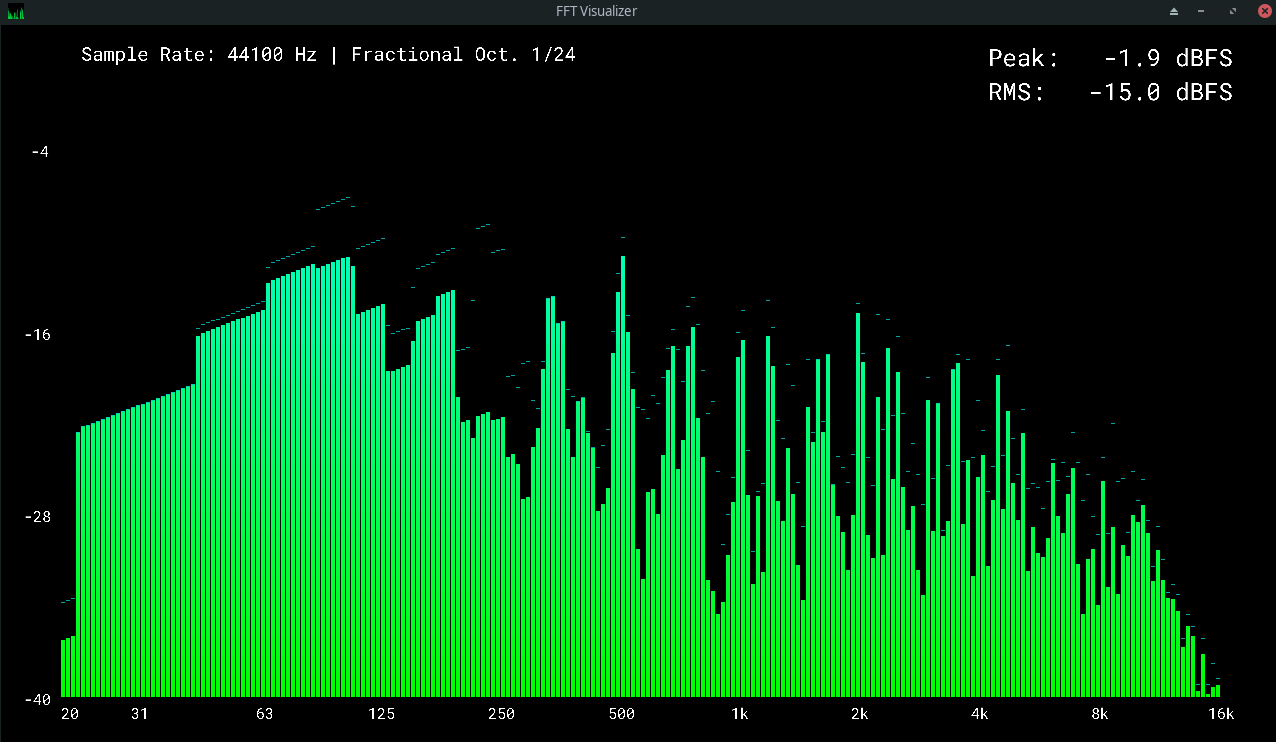
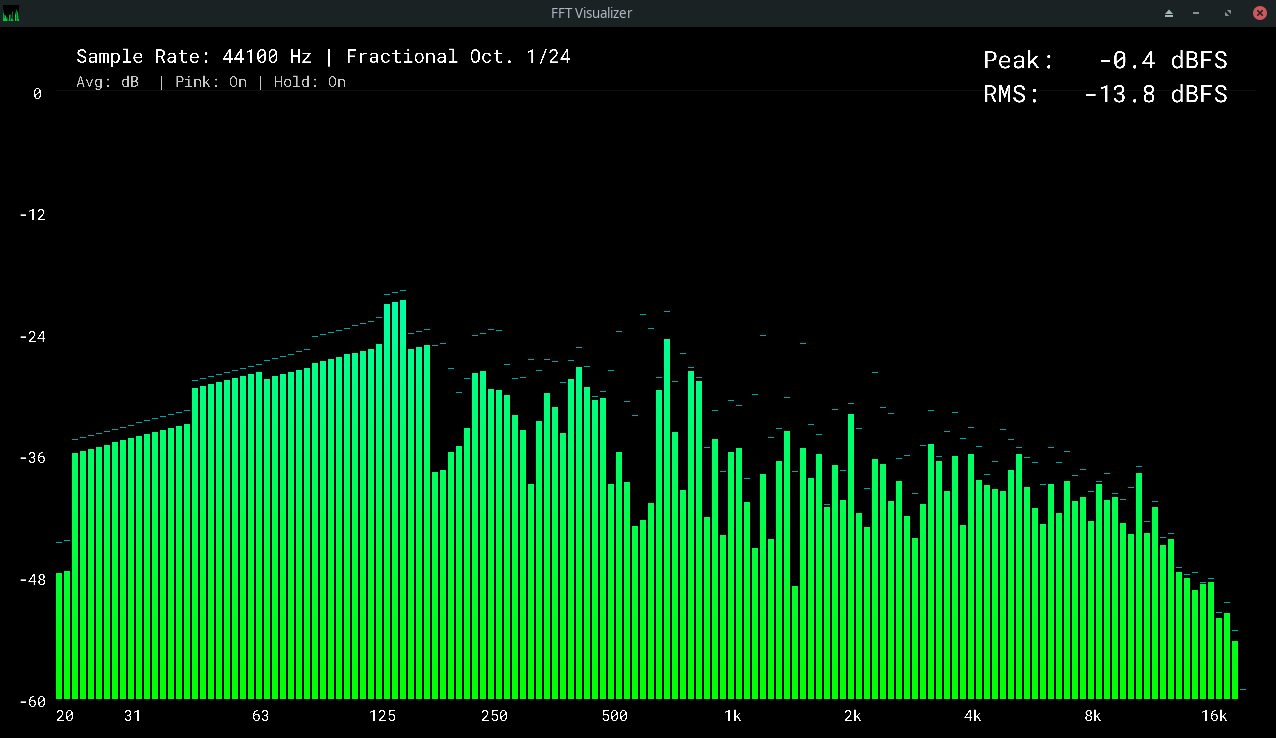
Added: Pink compensation and dB-domain averaging

diff --git a/src/spectrum.c b/src/spectrum.c
@@ -5,17 +5,17 @@
 
 internal void compute_bar_targets(spectrum_state_t *s);
 
-// @NOTE(Victor): Unused for now...
-// internal f64
-// db_to_volume(f64 db)
-// {
-//     return pow(10.0, 0.05 * db);
-// }
-
 internal f64
 volume_to_db(f64 volume, f64 epsilon_power, f64 db_offset)
 {
     return 10.0 * log10(volume + epsilon_power) + db_offset;
+}
+
+internal f64
+db_to_volume(f64 db, f64 epsilon_power, f64 db_offset)
+{
+    f64 p = pow(10.0, (db - db_offset) / 10.0) - epsilon_power;
+    return (p > 0.0) ? p : 0.0;
 }
 
 const f64 FRACTIONAL_OCTAVES[NUM_FRACTIONAL_OCTAVES] = {
@@ -87,13 +87,15 @@ allocate_bars(spectrum_state_t *s, i32 num)
     s->bar_smoothed = (f64 *)calloc(num, sizeof(f64));
     s->peak_power = (f64 *)calloc(num, sizeof(f64));
     s->bar_freq_center = (f64 *)calloc(num, sizeof(f64));
-    if (!s->bar_target || !s->bar_smoothed || !s->peak_power || !s->bar_freq_center)
+    s->peak_hold_timer = (f64 *)calloc(num, sizeof(f64));
+    if (!s->bar_target || !s->bar_smoothed || !s->peak_power || !s->bar_freq_center || !s->peak_hold_timer)
     {
         free(s->bar_target);
         free(s->bar_smoothed);
         free(s->peak_power);
         free(s->bar_freq_center);
-        s->bar_target = s->bar_smoothed = s->peak_power = s->bar_freq_center = NULL;
+        free(s->peak_hold_timer);
+        s->bar_target = s->bar_smoothed = s->peak_power = s->bar_freq_center = s->peak_hold_timer = NULL;
         return 0;
     }
 
@@ -114,7 +116,8 @@ free_bars(spectrum_state_t *s)
     free(s->bar_smoothed);
     free(s->peak_power);
     free(s->bar_freq_center);
-    s->bar_target = s->bar_smoothed = s->peak_power = s->bar_freq_center = NULL;
+    free(s->peak_hold_timer);
+    s->bar_target = s->bar_smoothed = s->peak_power = s->bar_freq_center = s->peak_hold_timer = NULL;
     s->num_bars = 0;
 }
 
@@ -135,12 +138,14 @@ reallocate_bars_if_needed(spectrum_state_t *s)
     f64 *new_smoothed = (f64 *)calloc(new_num, sizeof(f64));
     f64 *new_peak = (f64 *)calloc(new_num, sizeof(f64));
     f64 *new_freq_center = (f64 *)calloc(new_num, sizeof(f64));
-    if (!new_target || !new_smoothed || !new_peak || !new_freq_center)
+    f64 *new_peak_hold = (f64 *)calloc(new_num, sizeof(f64));
+    if (!new_target || !new_smoothed || !new_peak || !new_freq_center || !new_peak_hold)
     {
         free(new_target);
         free(new_smoothed);
         free(new_peak);
         free(new_freq_center);
+        free(new_peak_hold);
         return 0;
     }
 
@@ -169,6 +174,7 @@ reallocate_bars_if_needed(spectrum_state_t *s)
             new_target[i] = s->bar_target[closest_index];
             new_smoothed[i] = s->bar_smoothed[closest_index];
             new_peak[i] = s->peak_power[closest_index];
+            new_peak_hold[i] = s->peak_hold_timer[closest_index];
         }
     }
 
@@ -177,6 +183,7 @@ reallocate_bars_if_needed(spectrum_state_t *s)
     s->bar_smoothed = new_smoothed;
     s->peak_power = new_peak;
     s->bar_freq_center = new_freq_center;
+    s->peak_hold_timer = new_peak_hold;
     s->num_bars = new_num;
     return 1;
 }
@@ -228,6 +235,14 @@ void spectrum_init(spectrum_state_t *s, Wave *wave, Font font)
     s->meter_sample_count = 0;
     s->meter_rms_dbfs = NAN;
     s->meter_peak_dbfs = NAN;
+
+    s->pinking_enabled = 1;
+    s->db_smoothing_enabled = 1;
+    s->smooth_attack_ms = SMOOTH_ATTACK_MS;
+    s->smooth_release_ms = SMOOTH_RELEASE_MS;
+    s->db_smooth_attack_ms = DB_SMOOTH_ATTACK_MS;
+    s->db_smooth_release_ms = DB_SMOOTH_RELEASE_MS;
+    s->peak_hold_seconds = PEAK_HOLD_SEC;
 }
 
 void spectrum_destroy(spectrum_state_t *s)
@@ -453,17 +468,24 @@ compute_bar_targets(spectrum_state_t *s)
 
         f64 avg_power = (width > 0.0) ? (sum / width) : 0.0;
 
-        s->bar_target[b] = avg_power * (f_center / 1000.0);
+        if (s->pinking_enabled)
+        {
+            s->bar_target[b] = avg_power * (f_center / 1000.0);
+        }
+        else
+        {
+            s->bar_target[b] = avg_power;
+        }
     }
 }
 
 internal void
-smooth_bars(spectrum_state_t *s, f64 dt)
+smooth_bars_linear(spectrum_state_t *s, f64 dt)
 {
-    f64 tau_a = SMOOTH_ATTACK_MS * 0.001;
-    f64 tau_r = SMOOTH_RELEASE_MS * 0.001;
-    f64 a_up = 1.0 - exp(-dt / tau_a);
-    f64 a_dn = 1.0 - exp(-dt / tau_r);
+    f64 tau_a = s->smooth_attack_ms * 0.001;
+    f64 tau_r = s->smooth_release_ms * 0.001;
+    f64 a_up = (tau_a > 0.0) ? (1.0 - exp(-dt / tau_a)) : 1.0;
+    f64 a_dn = (tau_r > 0.0) ? (1.0 - exp(-dt / tau_r)) : 1.0;
 
     for (i32 b = 0; b < s->num_bars; b++)
     {
@@ -471,6 +493,24 @@ smooth_bars(spectrum_state_t *s, f64 dt)
         f64 x = s->bar_target[b];
         f64 a = (x > y) ? a_up : a_dn;
         s->bar_smoothed[b] = y + a * (x - y);
+    }
+}
+
+internal void
+smooth_bars_db(spectrum_state_t *s, f64 dt)
+{
+    f64 tau_a = s->db_smooth_attack_ms * 0.001;
+    f64 tau_r = s->db_smooth_release_ms * 0.001;
+    f64 a_up = (tau_a > 0.0) ? (1.0 - exp(-dt / tau_a)) : 1.0;
+    f64 a_dn = (tau_r > 0.0) ? (1.0 - exp(-dt / tau_r)) : 1.0;
+
+    for (i32 b = 0; b < s->num_bars; b++)
+    {
+        f64 x_db = volume_to_db(s->bar_target[b], EPSILON_POWER, DB_OFFSET);
+        f64 y_db = volume_to_db(s->bar_smoothed[b], EPSILON_POWER, DB_OFFSET);
+        f64 a = (x_db > y_db) ? a_up : a_dn;
+        f64 z_db = y_db + a * (x_db - y_db);
+        s->bar_smoothed[b] = db_to_volume(z_db, EPSILON_POWER, DB_OFFSET);
     }
 }
 
@@ -483,13 +523,25 @@ update_peaks(spectrum_state_t *s, f64 dt)
         if (s->bar_smoothed[b] > s->peak_power[b])
         {
             s->peak_power[b] = s->bar_smoothed[b];
+            s->peak_hold_timer[b] = s->peak_hold_seconds;
         }
         else
         {
-            s->peak_power[b] *= decay_factor;
-            if (s->peak_power[b] < s->bar_smoothed[b])
+            if (s->peak_hold_timer[b] > 0.0)
             {
-                s->peak_power[b] = s->bar_smoothed[b];
+                s->peak_hold_timer[b] -= dt;
+                if (s->peak_hold_timer[b] < 0.0)
+                {
+                    s->peak_hold_timer[b] = 0.0;
+                }
+            }
+            else
+            {
+                s->peak_power[b] *= decay_factor;
+                if (s->peak_power[b] < s->bar_smoothed[b])
+                {
+                    s->peak_power[b] = s->bar_smoothed[b];
+                }
             }
         }
     }
@@ -548,7 +600,15 @@ void spectrum_update(spectrum_state_t *s, Wave *wave, f32 *samples, f64 dt)
         s->meter_sample_count = 0;
     }
 
-    smooth_bars(s, dt);
+    if (s->db_smoothing_enabled)
+    {
+        smooth_bars_db(s, dt);
+    }
+    else
+    {
+        smooth_bars_linear(s, dt);
+    }
+
     update_peaks(s, dt);
 }
 

diff --git a/src/app.c b/src/app.c
@@ -67,6 +67,54 @@ void app_handle_input(app_state_t *app_state)
         }
         s->gradient_tex = create_gradient_texture(s->plot_height, s->bar_gradients[s->bar_gradient_index]);
     }
+
+    if (IsKeyPressed(KEY_P))
+    {
+        app_state->spectrum_state.pinking_enabled ^= 1;
+    }
+
+    if (IsKeyPressed(KEY_A))
+    {
+        app_state->spectrum_state.db_smoothing_enabled ^= 1;
+    }
+
+    if (IsKeyPressed(KEY_F))
+    {
+        spectrum_state_t *s = &app_state->spectrum_state;
+        static int fast = 0;
+        fast ^= 1;
+        if (fast)
+        {
+            s->db_smooth_attack_ms = 20.0;
+            s->db_smooth_release_ms = 600.0;
+        }
+        else
+        {
+            s->db_smooth_attack_ms = 10.0;
+            s->db_smooth_release_ms = 1200.0;
+        }
+    }
+
+    if (IsKeyPressed(KEY_H))
+    {
+        spectrum_state_t *s = &app_state->spectrum_state;
+        if (s->peak_hold_seconds <= 0.0)
+        {
+            s->peak_hold_seconds = 0.5;
+        }
+        else if (s->peak_hold_seconds < 1.0)
+        {
+            s->peak_hold_seconds = 1.0;
+        }
+        else if (s->peak_hold_seconds < 2.0)
+        {
+            s->peak_hold_seconds = 2.0;
+        }
+        else
+        {
+            s->peak_hold_seconds = 0.0;
+        }
+    }
 }
 
 void app_platform_init(app_state_t *app_state)
@@ -81,6 +129,7 @@ void app_platform_init(app_state_t *app_state)
     app_state->windowed_w = WINDOW_WIDTH;
     app_state->windowed_h = WINDOW_HEIGHT;
     app_state->fractional_octave_index_selected = 4; // Default to 1/24 octave
+    TraceLog(LOG_INFO, "Keys: O=Frac octave, P=Pink comp, A=dB avg, F=Avg preset, H=Peak hold");
 }
 
 i32 app_load_audio_data(app_state_t *app_state, const char *input_file)

diff --git a/include/config.h b/include/config.h
@@ -9,18 +9,24 @@
 #define MARGIN_BOTTOM 48
 #define GRID_COLOR (Color){40, 40, 40, 96}
 
+#define BAR_PIXEL_WIDTH 6
+#define BAR_GAP 2
+
+#define DB_BOTTOM -60.0
+#define DB_TOP 0.0
+#define DB_OFFSET 0.0
+
 #define FFT_WINDOW_SIZE 2048
 #define FFT_HOP_SIZE (FFT_WINDOW_SIZE / 4)
 #define HPF_CUTOFF_HZ 1.0
 #define SMOOTH_ATTACK_MS 0.0
 #define SMOOTH_RELEASE_MS 600.0
 
-#define BAR_PIXEL_WIDTH 4
-#define BAR_GAP 1
-#define DB_TOP 0.0
-#define DB_BOTTOM -40.0
-#define DB_OFFSET 12.0
-#define PEAK_DECAY_DB_PER_SEC 3.0
+#define DB_SMOOTH_ATTACK_MS 20.0
+#define DB_SMOOTH_RELEASE_MS 800.0
+
+#define PEAK_HOLD_SEC 0.75
+#define PEAK_DECAY_DB_PER_SEC 1.5
 #define EPSILON_POWER 1e-12
 
 #endif

diff --git a/src/render.c b/src/render.c
@@ -113,6 +113,15 @@ draw_overlay(const spectrum_state_t *s)
     snprintf(info, sizeof(info), "Sample Rate: %d Hz | Fractional Oct. 1/%d", sr, denom);
     DrawTextEx(s->font, info, (Vector2){80, 16}, 25, 0, WHITE);
 
+    char modes[128];
+    snprintf(modes, sizeof(modes),
+             "Avg: %s  | Pink: %s | Hold: %s",
+             s->db_smoothing_enabled ? "dB" : "Lin",
+             s->pinking_enabled ? "On" : "Off",
+             (s->peak_hold_seconds > 0.0) ? "On" : "Off");
+
+    DrawTextEx(s->font, modes, (Vector2){80, 44}, 20, 0, (Color){200, 200, 200, 255});
+
     char meters[96];
     const char *peak_txt;
     const char *rms_txt;

diff --git a/include/spectrum.h b/include/spectrum.h
@@ -43,6 +43,16 @@ typedef struct spectrum_state_t
     f64 *peak_power;
     f64 *bar_freq_center;
 
+    f64 *peak_hold_timer;
+
+    bool pinking_enabled;
+    i32 db_smoothing_enabled;
+    f64 smooth_attack_ms;
+    f64 smooth_release_ms;
+    f64 db_smooth_attack_ms;
+    f64 db_smooth_release_ms;
+    f64 peak_hold_seconds;
+
     f64 f_min;
     f64 f_max;
     f64 log_f_ratio;

diff --git a/README.md b/README.md
@@ -1,12 +1,11 @@
 # C FFT Visualizer
 
-Visualize the Fast Fourier Transform (FFT) of audio signals in real-time using C, FFTW3 and Raylib.
+Visualize the Fast Fourier Transform (FFT) of audio signals in real-time using C, FFTW3 and Raylib. Includes RTA-style smoothing, per-band peak-hold, and pink-noise compensation.
 
 > [!WARNING]
 > Early prototype.
 > Only supports .wav audio files for now.
-> Sample rates of 48kHz and higher will make the visualization lag relative to the audio.
-
+> Sample rates of 48kHz and higher may make the visualization lag relative to the audio.
 
 ## Requirements
 - C Compiler
@@ -18,20 +17,31 @@ Arch Linux:
 sudo pacman -S clang raylib fftw
 ```
 
-
 ## Build and run
 ```bash
 chmod +x build.sh
 ./build.sh
-
 ./build/c_fft_visualizer <path_to_audio_file> <--loop (optional)>
 ```
 
-## Controls
-- `O`: Change octave scaling
-- `C`: Cycle through color gradients
-- `F11`: Toggle fullscreen
+## Features
+- Log-frequency bars with fractional-octave smoothing (1/1…1/48)
+- dB-domain time averaging (EMA) with Fast/Slow presets
+- Per-band peak-hold with timed decay
+- Pink compensation (pink-flat display)
+- dB grid overlay and peak/RMS meters
 
+## Controls
+- O: Change octave scaling (1/1…1/48)
+- C: Cycle color gradients
+- P: Toggle pink compensation
+- A: Toggle dB-domain averaging (v.s. linear)
+- F: Toggle Fast/Slow averaging preset
+- H: Cycle peak-hold (Off, 0.5s, 1.0s, 2.0s)
+- F11: Toggle fullscreen
+
+## Configuration
+Edit include/config.h to tune defaults
 
 ## Screenshot
 ![screenshot](assets/screenshot.png)
